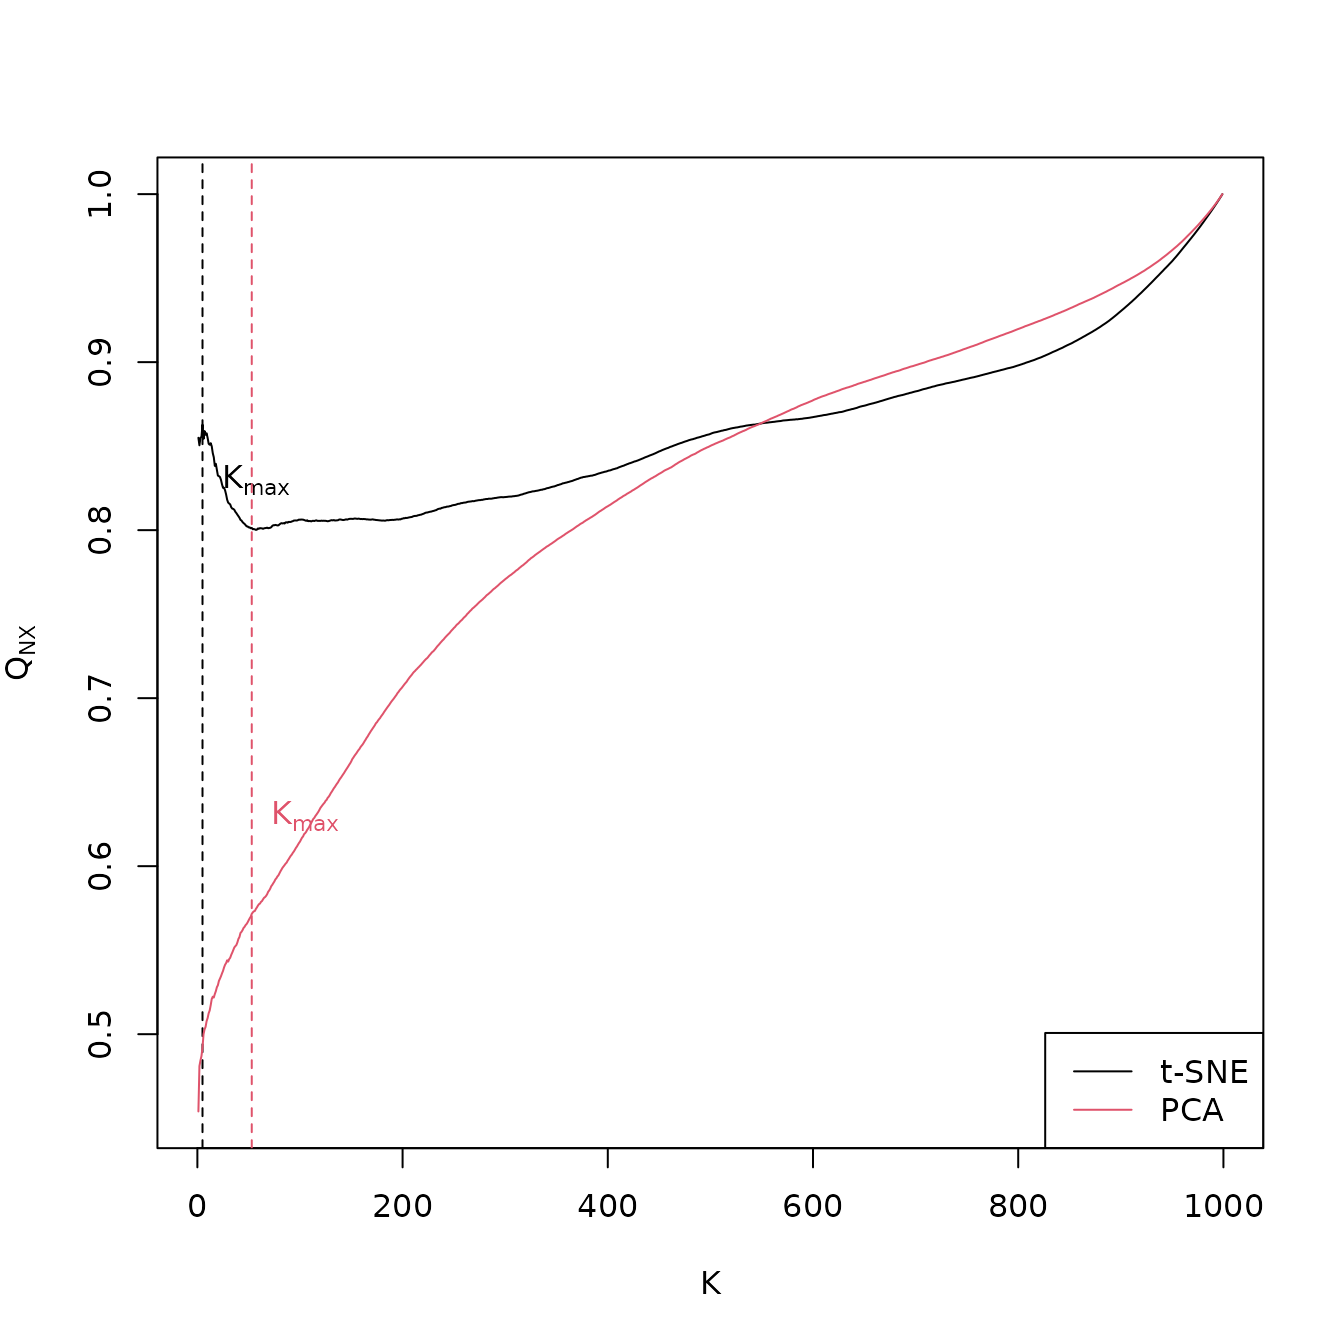
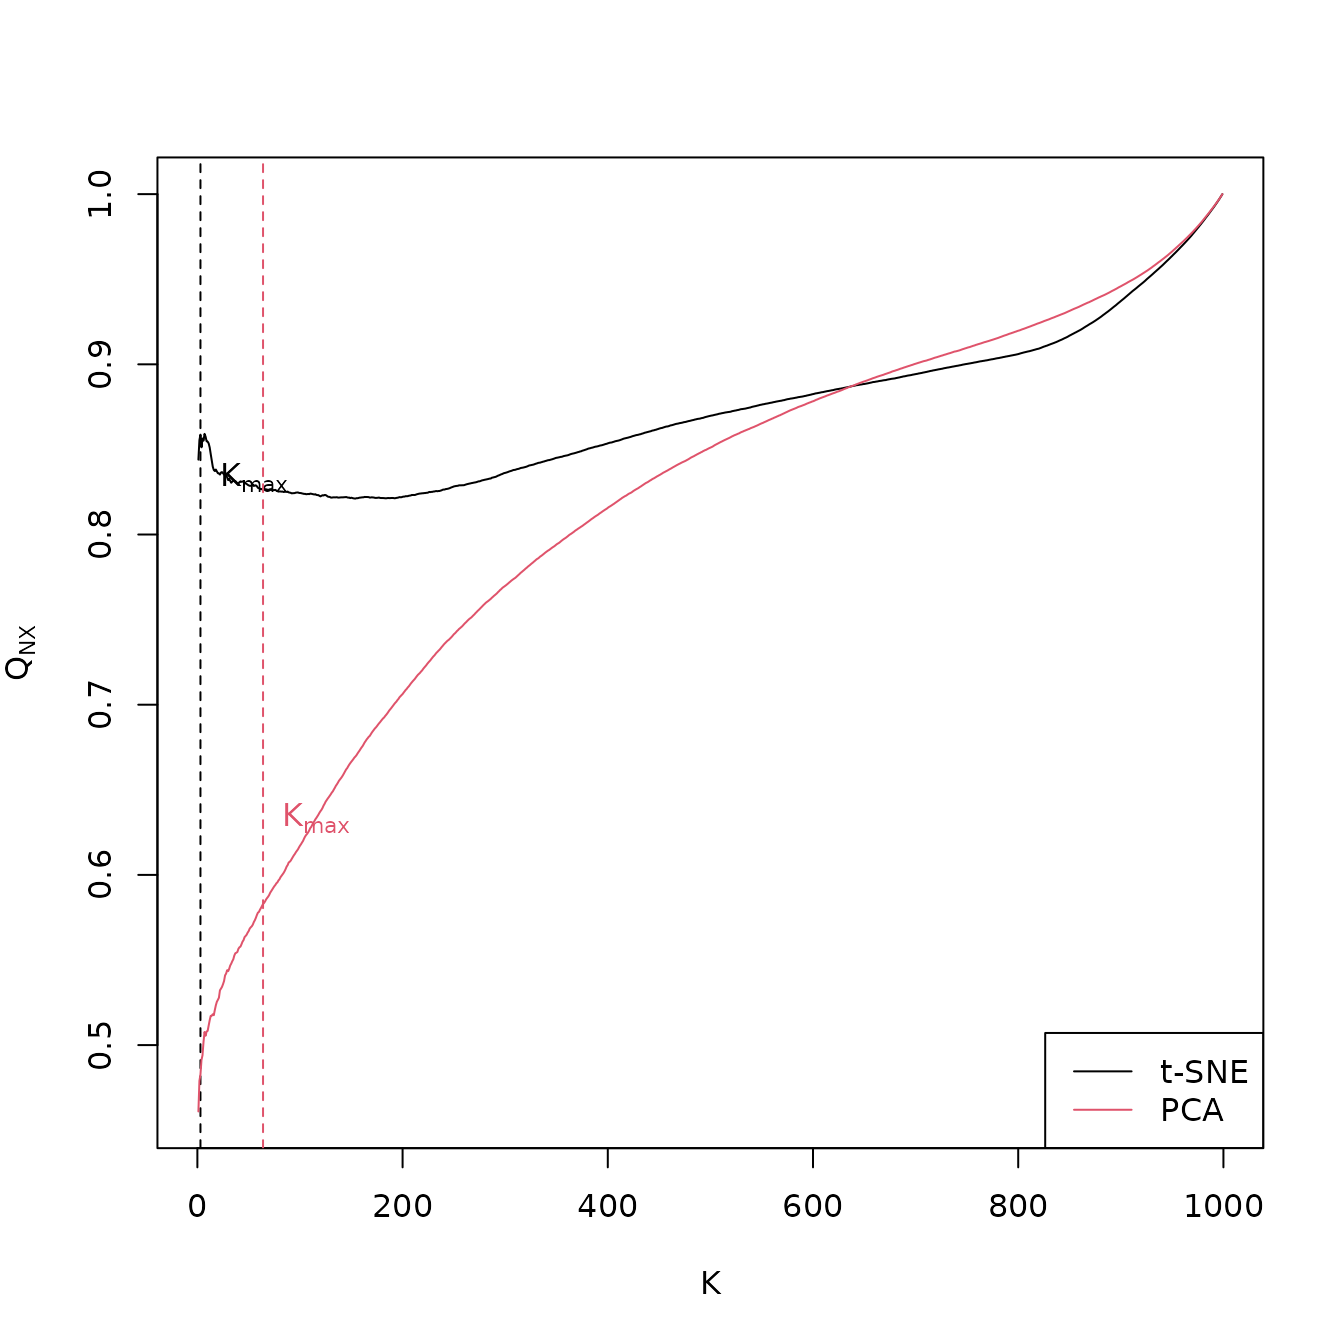
Deploying to gh-pages from @ gdkrmr/coRanking@9130b461608fb6509dac9f51944b938f611c2979 🚀

diff --git a/articles/coranking.html b/articles/coranking.html
@@ -26,7 +26,7 @@
     
     <a class="navbar-brand me-2" href="../index.html">coRanking</a>
 
-    <small class="nav-text text-muted me-auto" data-bs-toggle="tooltip" data-bs-placement="bottom" title="">0.2.3.9001</small>
+    <small class="nav-text text-muted me-auto" data-bs-toggle="tooltip" data-bs-placement="bottom" title="">0.2.4</small>
 
     
     <button class="navbar-toggler" type="button" data-bs-toggle="collapse" data-bs-target="#navbar" aria-controls="navbar" aria-expanded="false" aria-label="Toggle navigation">
@@ -72,7 +72,7 @@
                         <h4 data-toc-skip class="author">Guido
 Kraemer</h4>
             
-            <h4 data-toc-skip class="date">2023-03-20</h4>
+            <h4 data-toc-skip class="date">2023-03-21</h4>
       
       <small class="dont-index">Source: <a href="https://github.com/gdkrmr/coRanking/blob/HEAD/vignettes/coranking.Rmd" class="external-link"><code>vignettes/coranking.Rmd</code></a></small>
       <div class="d-none name"><code>coranking.Rmd</code></div>
@@ -179,19 +179,19 @@ values right of the maximum.</p>
 <li>
 <em>t-SNE</em>:
 <ul>
-<li><span class="math inline">\(K_\text{max} = 5\)</span></li>
-<li><span class="math inline">\(Q_\text{local} = 0.85576\)</span></li>
+<li><span class="math inline">\(K_\text{max} = 3\)</span></li>
+<li><span class="math inline">\(Q_\text{local} = 0.8527222\)</span></li>
 <li><span class="math inline">\(Q_\text{global} =
-0.8610688\)</span></li>
+0.8738516\)</span></li>
 </ul>
 </li>
 <li>
 <em>PCA</em>:
 <ul>
-<li><span class="math inline">\(K_\text{max} = 53\)</span></li>
-<li><span class="math inline">\(Q_\text{local} = 0.5352806\)</span></li>
+<li><span class="math inline">\(K_\text{max} = 64\)</span></li>
+<li><span class="math inline">\(Q_\text{local} = 0.5420699\)</span></li>
 <li><span class="math inline">\(Q_\text{global} =
-0.8310453\)</span></li>
+0.8348713\)</span></li>
 </ul>
 </li>
 </ul>

diff --git a/authors.html b/authors.html
@@ -10,7 +10,7 @@
     
     <a class="navbar-brand me-2" href="index.html">coRanking</a>
 
-    <small class="nav-text text-muted me-auto" data-bs-toggle="tooltip" data-bs-placement="bottom" title="">0.2.3.9001</small>
+    <small class="nav-text text-muted me-auto" data-bs-toggle="tooltip" data-bs-placement="bottom" title="">0.2.4</small>
 
     
     <button class="navbar-toggler" type="button" data-bs-toggle="collapse" data-bs-target="#navbar" aria-controls="navbar" aria-expanded="false" aria-label="Toggle navigation">
@@ -62,7 +62,7 @@
       <p>Kraemer G, Reichstein M, Mahecha MD (2018).
 “dimRed and coRanking—Unifying Dimensionality Reduction in R.”
 <em>The R Journal</em>, <b>10</b>(1), 342–358.
-coRanking version 0.2.3.9001, <a href="https://journal.r-project.org/archive/2018/RJ-2018-039/index.html" class="external-link">https://journal.r-project.org/archive/2018/RJ-2018-039/index.html</a>. 
+coRanking version 0.2.4, <a href="https://journal.r-project.org/archive/2018/RJ-2018-039/index.html" class="external-link">https://journal.r-project.org/archive/2018/RJ-2018-039/index.html</a>. 
 </p>
       <pre>@Article{,
   author = {Guido Kraemer and Markus Reichstein and Miguel D. Mahecha},
@@ -73,7 +73,7 @@ coRanking version 0.2.3.9001, <a href="https://journal.r-project.org/archive/201
   pages = {342--358},
   volume = {10},
   number = {1},
-  note = {coRanking version 0.2.3.9001},
+  note = {coRanking version 0.2.4},
 }</pre>
     </div>
   </main><aside class="col-md-3"><nav id="toc"><h2>On this page</h2>

diff --git a/reference/Q_NX.html b/reference/Q_NX.html
@@ -12,7 +12,7 @@ or keep their rank."><!-- mathjax --><script src="https://cdnjs.cloudflare.com/a
     
     <a class="navbar-brand me-2" href="../index.html">coRanking</a>
 
-    <small class="nav-text text-muted me-auto" data-bs-toggle="tooltip" data-bs-placement="bottom" title="">0.2.3.9001</small>
+    <small class="nav-text text-muted me-auto" data-bs-toggle="tooltip" data-bs-placement="bottom" title="">0.2.4</small>
 
     
     <button class="navbar-toggler" type="button" data-bs-toggle="collapse" data-bs-target="#navbar" aria-controls="navbar" aria-expanded="false" aria-label="Toggle navigation">

diff --git a/reference/R_NX.html b/reference/R_NX.html
@@ -14,7 +14,7 @@ embedding, to 1 for a perfect embedding."><!-- mathjax --><script src="https://c
     
     <a class="navbar-brand me-2" href="../index.html">coRanking</a>
 
-    <small class="nav-text text-muted me-auto" data-bs-toggle="tooltip" data-bs-placement="bottom" title="">0.2.3.9001</small>
+    <small class="nav-text text-muted me-auto" data-bs-toggle="tooltip" data-bs-placement="bottom" title="">0.2.4</small>
 
     
     <button class="navbar-toggler" type="button" data-bs-toggle="collapse" data-bs-target="#navbar" aria-controls="navbar" aria-expanded="false" aria-label="Toggle navigation">

diff --git a/reference/coRanking-package.html b/reference/coRanking-package.html
@@ -14,7 +14,7 @@ dimensionality reduction"><!-- mathjax --><script src="https://cdnjs.cloudflare.
     
     <a class="navbar-brand me-2" href="../index.html">coRanking</a>
 
-    <small class="nav-text text-muted me-auto" data-bs-toggle="tooltip" data-bs-placement="bottom" title="">0.2.3.9001</small>
+    <small class="nav-text text-muted me-auto" data-bs-toggle="tooltip" data-bs-placement="bottom" title="">0.2.4</small>
 
     
     <button class="navbar-toggler" type="button" data-bs-toggle="collapse" data-bs-target="#navbar" aria-controls="navbar" aria-expanded="false" aria-label="Toggle navigation">

diff --git a/reference/coranking.html b/reference/coranking.html
@@ -12,7 +12,7 @@ diminsionality reduction."><!-- mathjax --><script src="https://cdnjs.cloudflare
     
     <a class="navbar-brand me-2" href="../index.html">coRanking</a>
 
-    <small class="nav-text text-muted me-auto" data-bs-toggle="tooltip" data-bs-placement="bottom" title="">0.2.3.9001</small>
+    <small class="nav-text text-muted me-auto" data-bs-toggle="tooltip" data-bs-placement="bottom" title="">0.2.4</small>
 
     
     <button class="navbar-toggler" type="button" data-bs-toggle="collapse" data-bs-target="#navbar" aria-controls="navbar" aria-expanded="false" aria-label="Toggle navigation">

diff --git a/reference/rankmatrix.html b/reference/rankmatrix.html
@@ -12,7 +12,7 @@ the distance matrix"><!-- mathjax --><script src="https://cdnjs.cloudflare.com/a
     
     <a class="navbar-brand me-2" href="../index.html">coRanking</a>
 
-    <small class="nav-text text-muted me-auto" data-bs-toggle="tooltip" data-bs-placement="bottom" title="">0.2.3.9001</small>
+    <small class="nav-text text-muted me-auto" data-bs-toggle="tooltip" data-bs-placement="bottom" title="">0.2.4</small>
 
     
     <button class="navbar-toggler" type="button" data-bs-toggle="collapse" data-bs-target="#navbar" aria-controls="navbar" aria-expanded="false" aria-label="Toggle navigation">

diff --git a/articles/index.html b/articles/index.html
@@ -10,7 +10,7 @@
     
     <a class="navbar-brand me-2" href="../index.html">coRanking</a>
 
-    <small class="nav-text text-muted me-auto" data-bs-toggle="tooltip" data-bs-placement="bottom" title="">0.2.3.9001</small>
+    <small class="nav-text text-muted me-auto" data-bs-toggle="tooltip" data-bs-placement="bottom" title="">0.2.4</small>
 
     
     <button class="navbar-toggler" type="button" data-bs-toggle="collapse" data-bs-target="#navbar" aria-controls="navbar" aria-expanded="false" aria-label="Toggle navigation">

diff --git a/reference/AUC_ln_K.html b/reference/AUC_ln_K.html
@@ -10,7 +10,7 @@
     
     <a class="navbar-brand me-2" href="../index.html">coRanking</a>
 
-    <small class="nav-text text-muted me-auto" data-bs-toggle="tooltip" data-bs-placement="bottom" title="">0.2.3.9001</small>
+    <small class="nav-text text-muted me-auto" data-bs-toggle="tooltip" data-bs-placement="bottom" title="">0.2.4</small>
 
     
     <button class="navbar-toggler" type="button" data-bs-toggle="collapse" data-bs-target="#navbar" aria-controls="navbar" aria-expanded="false" aria-label="Toggle navigation">

diff --git a/reference/LCMC.html b/reference/LCMC.html
@@ -10,7 +10,7 @@
     
     <a class="navbar-brand me-2" href="../index.html">coRanking</a>
 
-    <small class="nav-text text-muted me-auto" data-bs-toggle="tooltip" data-bs-placement="bottom" title="">0.2.3.9001</small>
+    <small class="nav-text text-muted me-auto" data-bs-toggle="tooltip" data-bs-placement="bottom" title="">0.2.4</small>
 
     
     <button class="navbar-toggler" type="button" data-bs-toggle="collapse" data-bs-target="#navbar" aria-controls="navbar" aria-expanded="false" aria-label="Toggle navigation">

diff --git a/reference/imageplot.html b/reference/imageplot.html
@@ -10,7 +10,7 @@
     
     <a class="navbar-brand me-2" href="../index.html">coRanking</a>
 
-    <small class="nav-text text-muted me-auto" data-bs-toggle="tooltip" data-bs-placement="bottom" title="">0.2.3.9001</small>
+    <small class="nav-text text-muted me-auto" data-bs-toggle="tooltip" data-bs-placement="bottom" title="">0.2.4</small>
 
     
     <button class="navbar-toggler" type="button" data-bs-toggle="collapse" data-bs-target="#navbar" aria-controls="navbar" aria-expanded="false" aria-label="Toggle navigation">

diff --git a/reference/index.html b/reference/index.html
@@ -10,7 +10,7 @@
     
     <a class="navbar-brand me-2" href="../index.html">coRanking</a>
 
-    <small class="nav-text text-muted me-auto" data-bs-toggle="tooltip" data-bs-placement="bottom" title="">0.2.3.9001</small>
+    <small class="nav-text text-muted me-auto" data-bs-toggle="tooltip" data-bs-placement="bottom" title="">0.2.4</small>
 
     
     <button class="navbar-toggler" type="button" data-bs-toggle="collapse" data-bs-target="#navbar" aria-controls="navbar" aria-expanded="false" aria-label="Toggle navigation">
